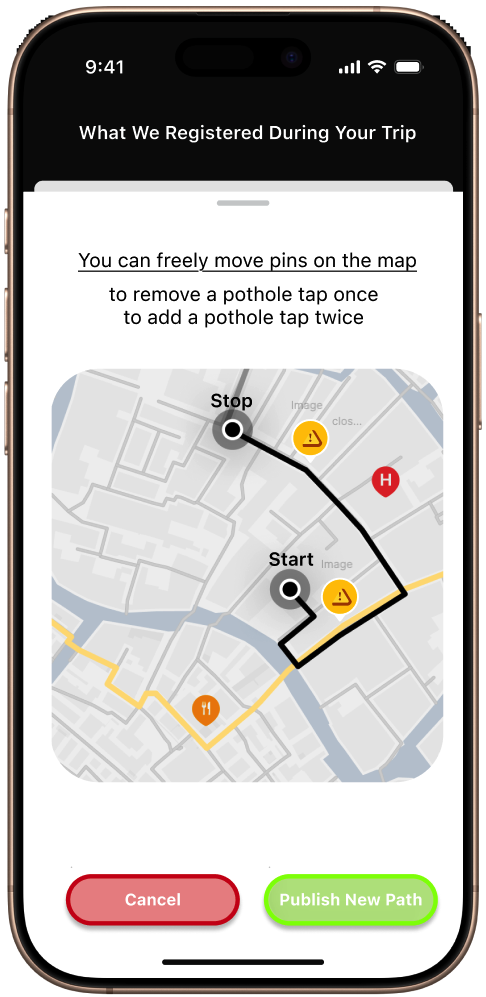
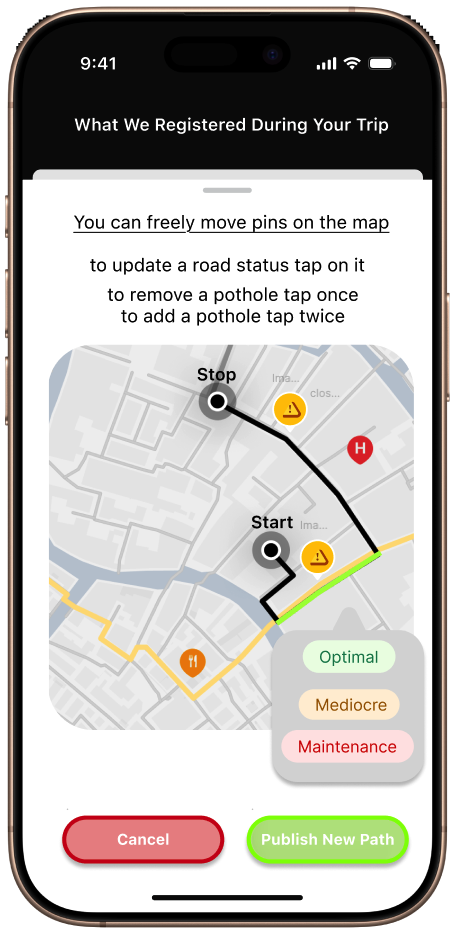
fixed mockups

diff --git a/RASD/RASD.tex b/RASD/RASD.tex
@@ -609,7 +609,7 @@ In addition, the systems requires some certain dependencies:
 \subsection{User Interfaces}
 
 This section describes briefly the main screens and interactions presented to the user. We also include mockups to illustrate the intended design.
-We kept Ease of use in mind, but an On boarding phase should be considered when developing the final product.
+We kept Ease of use as focus, but an "On boarding" phase should be considered when developing the final product.
 
 \textit{Look and feel can vary depending on the implementation}
 
@@ -638,7 +638,8 @@ When the application opens and no trip is currently active, the Home acts as a w
 
 Live metrics appear only during an actual ride. As soon as a trip is initiated or activated manually, the central area is replaced by the real-time metrics.
 
-The user will be prompted when it ends a trip in order to eventually update it and publish it as a bike path.  %%forse devo aggiungere tasti alla UI
+The user will be prompted when it ends a trip in order to eventually update it, by interacting with the UI, and publish it as a bike path. 
+By performing certain actions the user will be able to change road status, add potholes or remove false positives readings about them.
 
 Navigation is provided by a persistent bottom menu that is always available. The menu contains three entries that correspond to the other core functions of the application: access to \texttt{Bike Paths}, access to \texttt{past trips}, and \texttt{Manual Path}.
 
@@ -664,7 +665,7 @@ Navigation is provided by a persistent bottom menu that is always available. The
 \end{figure}
 
 \subsubsection{Past trip recordings}
-In this section the user will be able to see a list of all it's past recorded trips ordered by date with general metrics. Each recorded trip item is clickable and takes to the \texttt{past trip page}
+In this section the user will be able to see a list of all it's past recorded trips ordered by date with general metrics. Each recorded trip item can be clickable in the final product taking to a dedicated page where the trip selected is explained in details.
 
 \begin{figure}
     \centering
@@ -674,7 +675,9 @@ In this section the user will be able to see a list of all it's past recorded tr
 \end{figure}
 
 \subsubsection{Manual path insertion}
-In this screen the user will be able to insert each street composing the path it wants to publish, alongside with the road status.
+In this screen the user will be able to add, one by one, the streets composing the path it wants to publish, alongside with the road status.
+The road status is asked when adding a new stop, the pop up is not shown in this document.
+%%uhm non saprei come mostarlo :|
 
 \begin{figure}
     \centering
@@ -684,7 +687,7 @@ In this screen the user will be able to insert each street composing the path it
 \end{figure}
 
 \subsubsection{Bike path search \& results}
-In this screen the user will be able to insert origin and destination and see the relevant bike path for its research.
+In this screen the user will be able to insert origin and destination and see the relevant bike path for its research, alongside their own overall score and ordered following the specification.
 %The system shows the first top 10 results and eventually loads more results as the user navigate the list.
 \begin{figure}
     \centering
